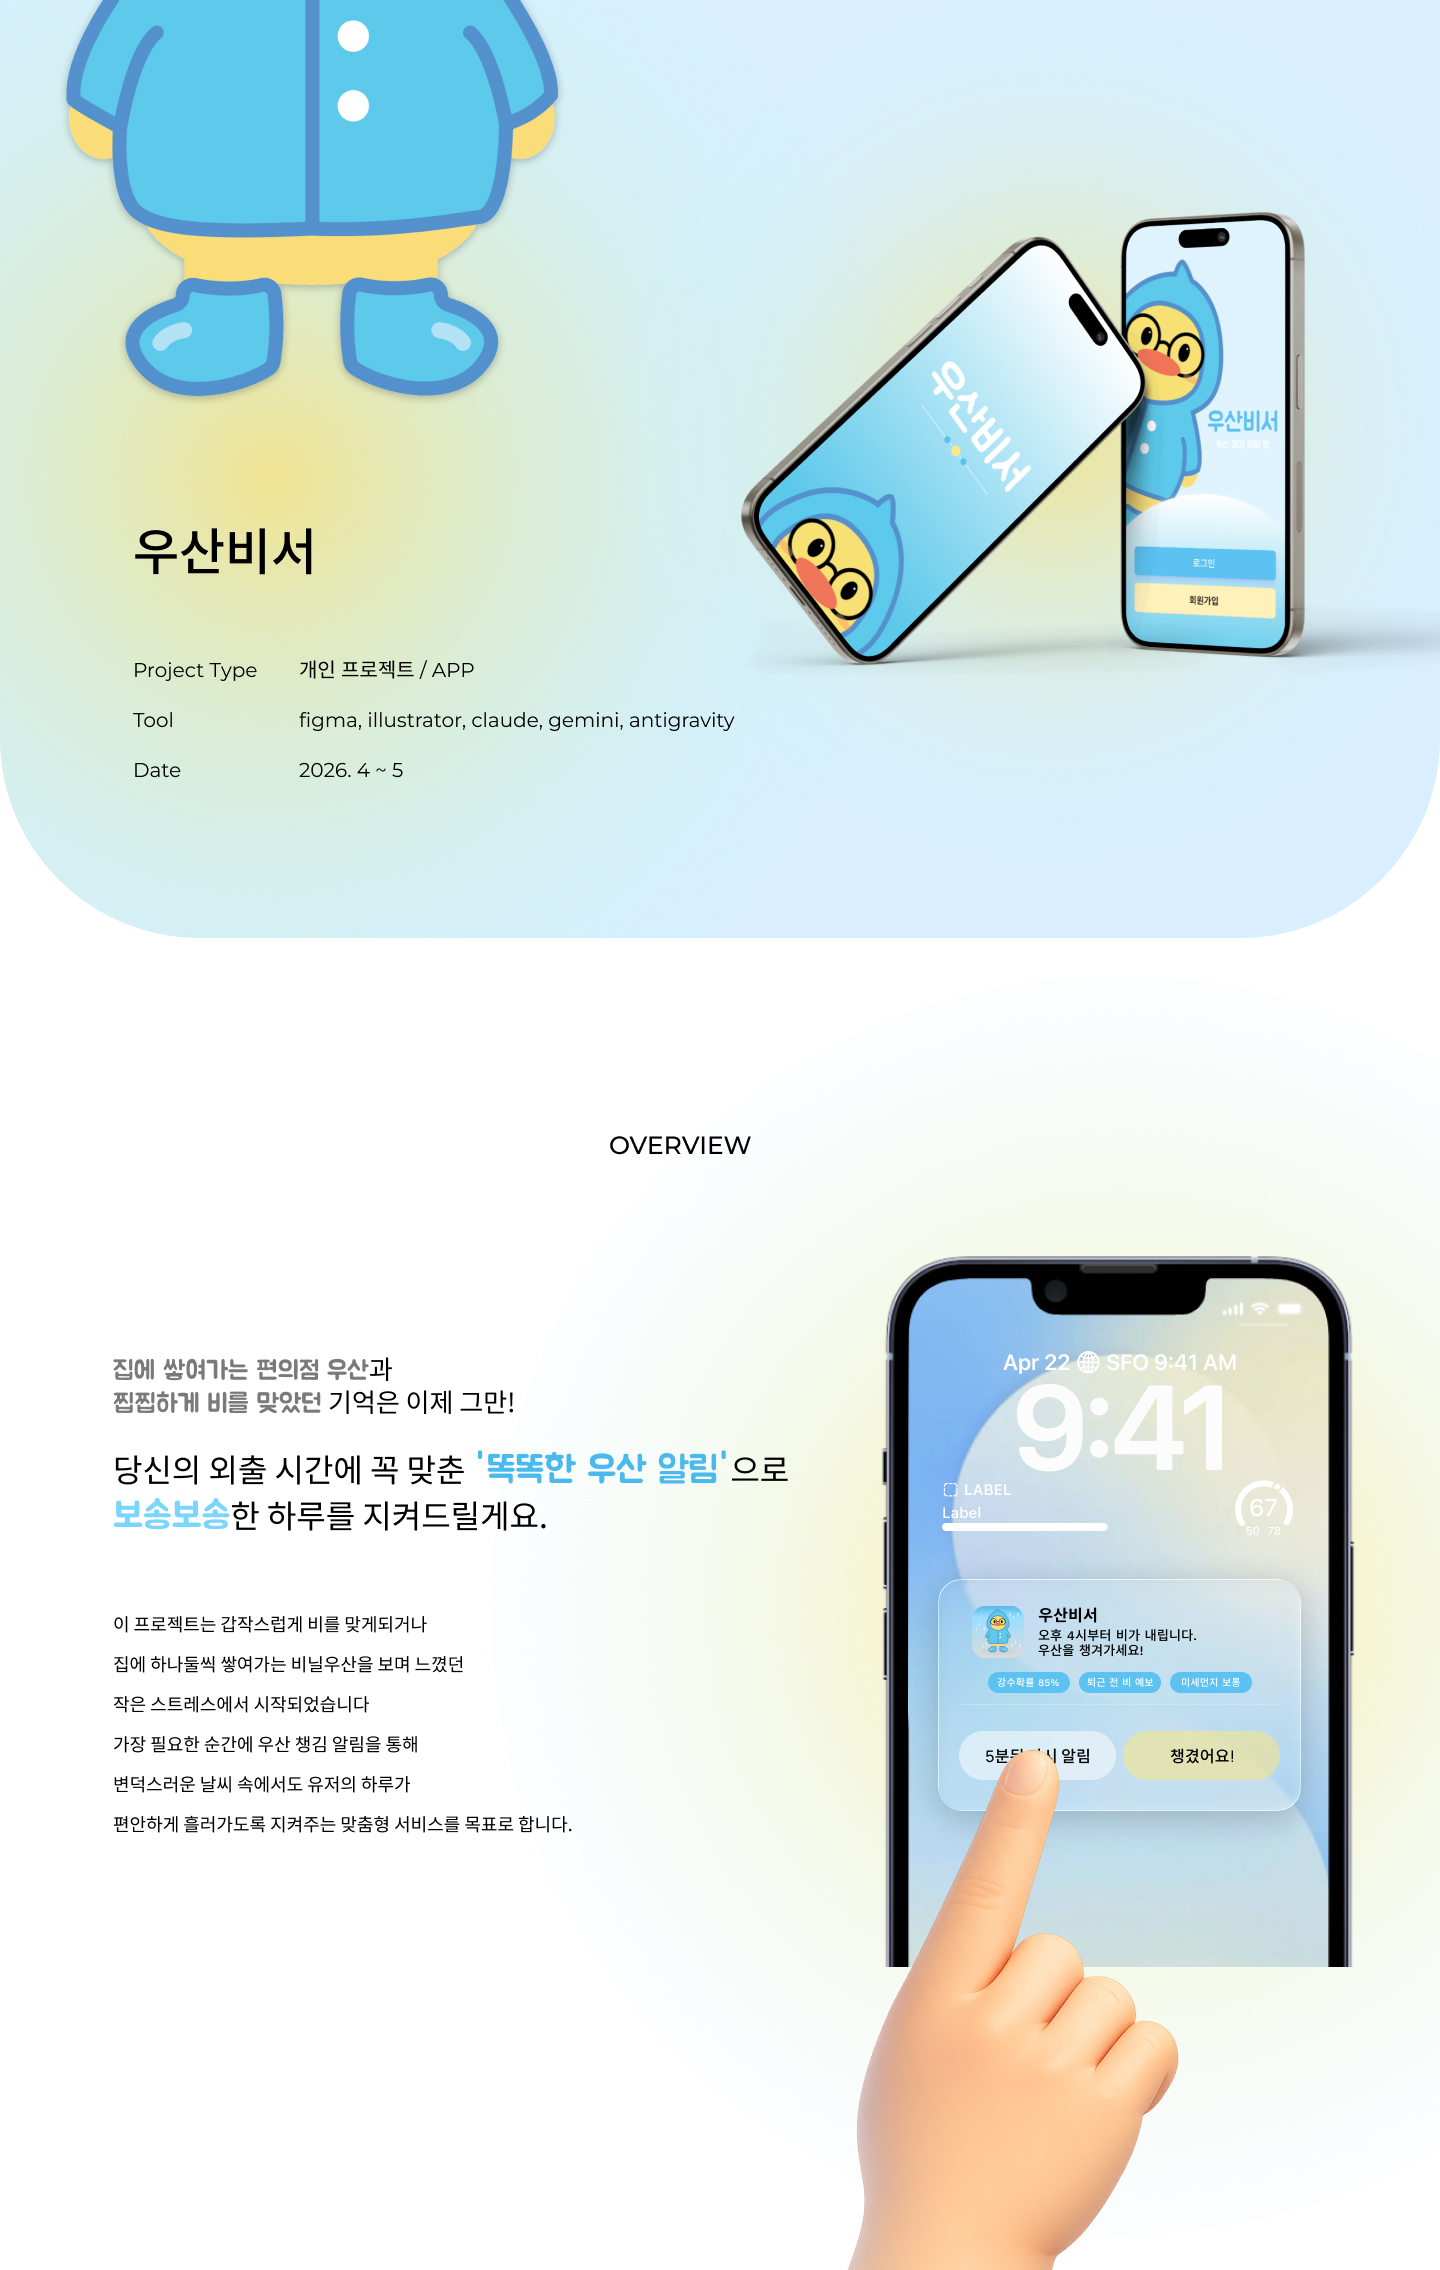
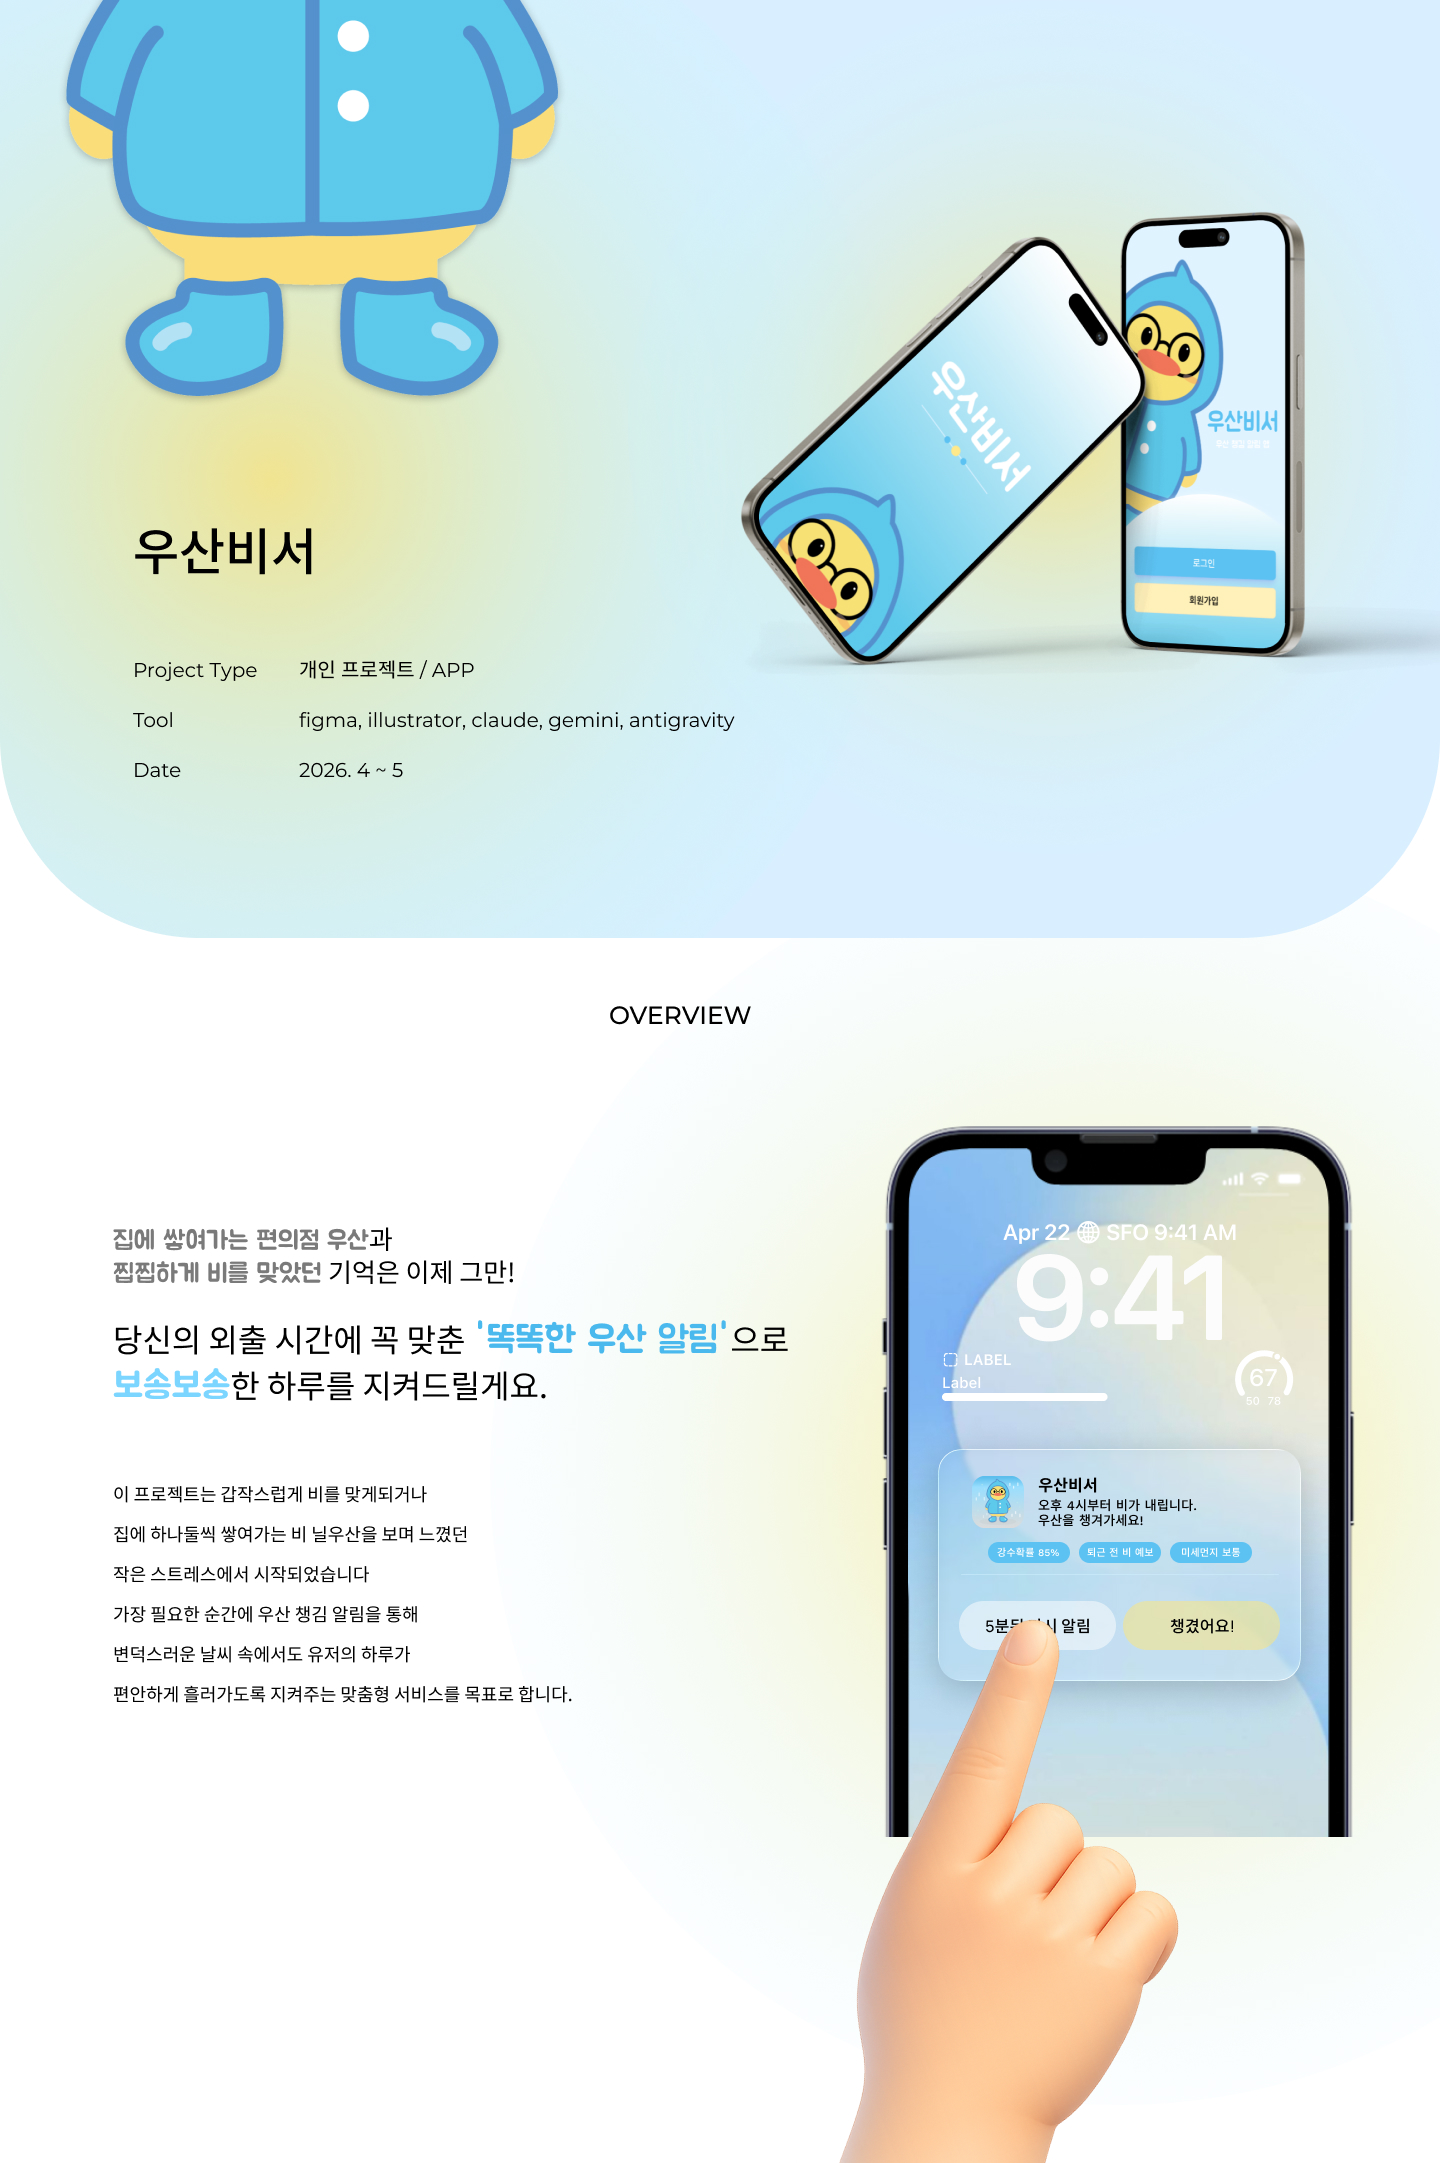
수정

diff --git a/main.html b/main.html
@@ -147,60 +147,63 @@
                     <!-- Existing Folder Wrapper -->
                     <div class="folder-wrapper">
 
-                    <!-- Folder Back Flap -->
-                    <div class="folder-back">
-                        <!-- Tab: ABOUT ME -->
-                        <div class="tab-about-me" id="tab-about-me">
-                            <span>ABOUT ME</span>
+                        <!-- Folder Back Flap -->
+                        <div class="folder-back">
+                            <!-- Tab: ABOUT ME -->
+                            <div class="tab-about-me" id="tab-about-me">
+                                <span>ABOUT ME</span>
+                            </div>
                         </div>
-                    </div>
 
-                    <!-- Folder Inserts (File Icons/Tabs) -->
-                    <div class="folder-inserts">
+                        <!-- Folder Inserts (File Icons/Tabs) -->
+                        <div class="folder-inserts">
 
-                        <!-- Insert 1: UXUI DESIGN (Purple Starburst) -->
-                        <a href="subpage.html" class="insert-uxui" id="insert-uxui" title="UX/UI Design Portfolio">
-                            <div class="starburst-container">
-                                <svg width="100%" height="100%" viewBox="0 0 160 160">
-                                    <polygon id="starburst-uxui" points="" fill="#9a679c" />
-                                </svg>
-                                <div class="insert-text">
-                                    UXUI<br>DESIGN
+                            <!-- Insert 1: UXUI DESIGN (Purple Starburst) -->
+                            <a href="subpage.html" class="insert-uxui" id="insert-uxui" title="UX/UI Design Portfolio">
+                                <div class="starburst-container">
+                                    <svg width="100%" height="100%" viewBox="0 0 160 160">
+                                        <polygon id="starburst-uxui" points="" fill="#9a679c" />
+                                    </svg>
+                                    <div class="insert-text">
+                                        UXUI<br>DESIGN
+                                    </div>
                                 </div>
-                            </div>
-                        </a>
+                            </a>
 
-                        <!-- Insert 2: LAYOUT (Pink Oval) -->
-                        <a href="subpage.html" class="insert-layout" id="insert-layout" title="Layout Design Portfolio">
-                            <div class="oval-shape">
-                                <span>LAYOUT</span>
-                            </div>
-                        </a>
-
-                        <!-- Insert 3: IDEA (Green Starburst) -->
-                        <a href="subpage.html" class="insert-idea" id="insert-idea" title="Idea & Strategy Portfolio">
-                            <div class="starburst-container">
-                                <svg width="100%" height="100%" viewBox="0 0 160 160">
-                                    <polygon id="starburst-idea" points="" fill="#52c383" />
-                                </svg>
-                                <div class="insert-text">
-                                    IDEA
+                            <!-- Insert 2: LAYOUT (Pink Oval) -->
+                            <a href="subpage.html" class="insert-layout" id="insert-layout"
+                                title="Layout Design Portfolio">
+                                <div class="oval-shape">
+                                    <span>LAYOUT</span>
                                 </div>
-                            </div>
+                            </a>
+
+                            <!-- Insert 3: IDEA (Green Starburst) -->
+                            <a href="subpage.html" class="insert-idea" id="insert-idea"
+                                title="Idea & Strategy Portfolio">
+                                <div class="starburst-container">
+                                    <svg width="100%" height="100%" viewBox="0 0 160 160">
+                                        <polygon id="starburst-idea" points="" fill="#52c383" />
+                                    </svg>
+                                    <div class="insert-text">
+                                        IDEA
+                                    </div>
+                                </div>
+                            </a>
+
+                            <!-- Insert 4: BRANDING (Orange Dome) -->
+                            <a href="subpage.html" class="insert-branding" id="insert-branding"
+                                title="Branding Portfolio">
+                                <div class="dome-shape">
+                                    <span>BRANDING</span>
+                                </div>
+                            </a>
+
+                        </div>
+
+                        <!-- Folder Front Flap -->
+                        <a href="subpage.html" class="folder-front" id="folder-front" title="">
                         </a>
-
-                        <!-- Insert 4: BRANDING (Orange Dome) -->
-                        <a href="subpage.html" class="insert-branding" id="insert-branding" title="Branding Portfolio">
-                            <div class="dome-shape">
-                                <span>BRANDING</span>
-                            </div>
-                        </a>
-
-                    </div>
-
-                    <!-- Folder Front Flap -->
-                    <a href="subpage.html" class="folder-front" id="folder-front" title="">
-                    </a>
 
 
 